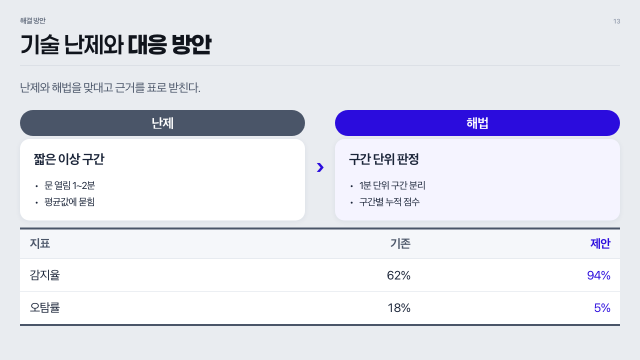
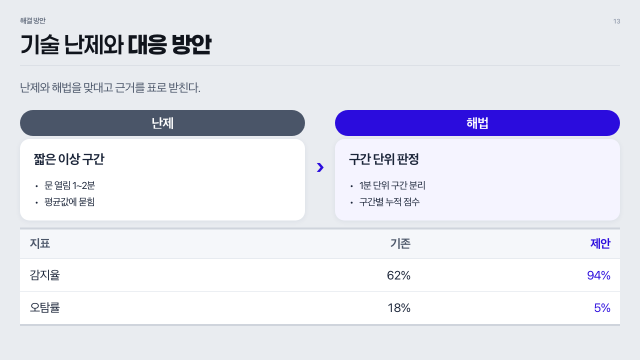
표 위아래 선 색을 4단계 연하게: #4A5568 → #CFD4DC(헤드라인 구분선과 같은 색)

Changed region(s): [[0.0312, 0.8861, 0.9688, 0.9167], [0.0312, 0.6111, 0.9688, 0.6417]]

diff --git a/docs/templates/deck.html b/docs/templates/deck.html
@@ -86,9 +86,9 @@ ul.rl.row li .v{display:inline;margin-left:.5em;}
 .stat .sv small{font-size:.5em;color:var(--text);margin-left:.05em;font-weight:700;}
 .stat .sn{font-size:var(--fs-small);color:var(--primary-2);font-weight:700;margin-top:.5em;line-height:1.4;}
 /* kv table (minimal): label column grey, values, bold last row; emphasize col tinted */
-/* 표 — SAFE AI 디자인 시스템 Data Table: 위·아래 4px 회색(--text-mid) 선으로 시작·끝, 안쪽은 1px 연회색 선(세로선 없음).
+/* 표 — SAFE AI 디자인 시스템 Data Table: 위·아래 4px 연회색(헤드라인 구분선과 같은 색) 선으로 시작·끝, 안쪽은 1px 연회색 선(세로선 없음).
    머리글(타이틀 영역)은 연회색 바탕·회색 글자. rowHeader 면 첫 열도 타이틀 영역(연회색 바탕·회색 글자 + 오른쪽 1px 선). 강조 열은 글자색만 포인트 컬러 */
-table.rt{width:100%;border-collapse:collapse;font-size:calc(var(--fs-table) * var(--kt, 1));background:#fff;table-layout:fixed;text-align:left;border-top:4px solid var(--text-mid);border-bottom:4px solid var(--text-mid);}
+table.rt{width:100%;border-collapse:collapse;font-size:calc(var(--fs-table) * var(--kt, 1));background:#fff;table-layout:fixed;text-align:left;border-top:4px solid #CFD4DC;border-bottom:4px solid #CFD4DC;}
 .rt thead th{background:var(--bg-soft);color:var(--text-mid);font-weight:700;text-align:left;padding:.55em .8em;border:0;border-bottom:1px solid var(--border);font-size:calc(var(--fs-tableh) * var(--kt, 1));line-height:1.3;word-break:keep-all;overflow-wrap:anywhere;vertical-align:middle;}   /* 머리글도 칸이 좁으면 줄바꿈 */
 .rt thead th.em{color:var(--primary);}
 .rt tbody td{padding:.6em .8em;border:0;word-break:keep-all;overflow-wrap:anywhere;border-bottom:1px solid var(--border);vertical-align:middle;color:var(--text);background:transparent;text-align:left;line-height:1.45;}

diff --git a/docs/design/index.html b/docs/design/index.html
@@ -256,9 +256,9 @@ tr.dirty .val input{border-color:var(--acc);color:var(--acc)}
 .d-banner .msg .rl li{color:var(--p-btext);font-size:calc(var(--fs-small)*var(--k));gap:.35em}
 .d-banner .msg .rl li::before{color:var(--p-btext)}
 .d-banner .msg .rl{gap:.35em}
-/* 표 — SAFE AI Data Table: 위·아래 4px 회색 선, 안쪽 1px 연회색 선, 타이틀 영역 연회색 바탕·회색 글자 */
+/* 표 — SAFE AI Data Table: 위·아래 4px 연회색 선, 안쪽 1px 연회색 선, 타이틀 영역 연회색 바탕·회색 글자 */
 .d-tbl{width:100%;border-collapse:collapse;font-size:calc(var(--fs-table)*var(--k));background:#fff;table-layout:fixed;text-align:left;
-  border-top:4px solid #4A5568;border-bottom:4px solid #4A5568}
+  border-top:4px solid #CFD4DC;border-bottom:4px solid #CFD4DC}
 .d-tbl th{background:#F5F7FA;color:#4A5568;font-weight:700;text-align:left;padding:.55em .8em;
   border:0;border-bottom:1px solid #D9DEE6;font-size:calc(var(--fs-tableh)*var(--k));line-height:1.3;white-space:nowrap}
 .d-tbl th.em{color:var(--p)}

diff --git a/skills/ppt-maker/app/design-system.html b/skills/ppt-maker/app/design-system.html
@@ -256,9 +256,9 @@ tr.dirty .val input{border-color:var(--acc);color:var(--acc)}
 .d-banner .msg .rl li{color:var(--p-btext);font-size:calc(var(--fs-small)*var(--k));gap:.35em}
 .d-banner .msg .rl li::before{color:var(--p-btext)}
 .d-banner .msg .rl{gap:.35em}
-/* 표 — SAFE AI Data Table: 위·아래 4px 회색 선, 안쪽 1px 연회색 선, 타이틀 영역 연회색 바탕·회색 글자 */
+/* 표 — SAFE AI Data Table: 위·아래 4px 연회색 선, 안쪽 1px 연회색 선, 타이틀 영역 연회색 바탕·회색 글자 */
 .d-tbl{width:100%;border-collapse:collapse;font-size:calc(var(--fs-table)*var(--k));background:#fff;table-layout:fixed;text-align:left;
-  border-top:4px solid #4A5568;border-bottom:4px solid #4A5568}
+  border-top:4px solid #CFD4DC;border-bottom:4px solid #CFD4DC}
 .d-tbl th{background:#F5F7FA;color:#4A5568;font-weight:700;text-align:left;padding:.55em .8em;
   border:0;border-bottom:1px solid #D9DEE6;font-size:calc(var(--fs-tableh)*var(--k));line-height:1.3;white-space:nowrap}
 .d-tbl th.em{color:var(--p)}

diff --git a/skills/ppt-maker/references/design-system.md b/skills/ppt-maker/references/design-system.md
@@ -22,7 +22,7 @@
 - **지표 카드**: 왼쪽 2행 표(라벨 열 연회색, 마지막 행 굵게) + 오른쪽 연파랑 강조 박스(작은 라벨 + 큰 수치 "18% 증가"). **큰 수치(stat)**: 작은 지표명 → 큰 숫자(단위는 절반 크기) → 파란 보조 문장.
 - **그래프(chart)**(2026-09-30, [shadcn/ui Charts](https://ui.shadcn.com/charts) 를 따름): 회색 패널 없이 카드 위에 바로. 왼쪽 제목·오른쪽 "단위 : …". 가로 격자선만(연한 테두리색), 축선·눈금선 없음, X 라벨만. 막대는 위 모서리만 둥글게(한 시리즈 5px, 여러 시리즈 3px), 선은 부드러운 곡선 + 선 색으로 채운 점, 값 라벨은 위. 범례는 아래 가운데(작은 둥근 네모). 색은 브랜드 팔레트 순서(primary-2 → primary → teal → gold). PPTX 는 같은 규칙이되 막대 모서리 둥글리기만 없음. 같은 종류 그래프는 형식 통일.
 - **간트(gantt)**(2026-10-01): 왼쪽 항목 이름 열(24%, 중간 굵기), 위 기간 라벨(회색) + 밑줄, 칸마다 세로 격자선(연한 테두리색), 행마다 가로 막대(행 높이의 40%, 포인트 컬러, 모서리 3px). `second` 파랑·`accent` 청록·`muted` 회색. 가로 구분선·행 배경은 없음. 한 장에 행 3~8개, 칸 4~12개.
-- **표**(2026-10-04, Figma SAFE AI 디자인 시스템 Data Table 을 따름): 시작·끝은 **4px 회색 선**(`--text-mid` #4A5568, 2026-10-09 검정 2px 에서 바꿈), 안쪽 행 구분은 1px 연회색 선(`--border`), 세로선 없음. **타이틀 영역(머리글 행)** 은 연회색 바탕(`--bg-soft`)·**굵게(bold)·회색 글자(`--text-mid`)**. **본문 칸은 보통 굵기(regular)·검정(`--text`)**. **세로 타이틀이 있는 표(`rowHeader: true`)** 는 첫 열도 타이틀 영역 — 연회색 바탕·굵게·회색 글자, 오른쪽 1px 선. 첫 칸이 합계·총계·평균인 행만 연회색 바탕·굵게. 숫자 칸이 절반 넘는 열은 오른쪽 정렬(tabular-nums). 강조 열만 머리글 포인트 컬러 글자(밑줄은 다른 열과 같은 1px 선), 칸은 글자색만 포인트 컬러(바탕 칠하지 않음, 굵기 그대로). **카드 안 작은 표(라벨·값 두 칸, `rows`)** 는 표가 아니라 값 목록처럼: 위·아래 검정 선 없음, 라벨 회색(`--text-mid`), 값 오른쪽 정렬·굵게, 행 사이 1px 선. **크기는 내용에 맞춘다**: `widths` 가 없으면 열 너비를 칸 글자 양에 맞춰 나누고(긴 글 열은 넓게, 숫자 열은 좁게, 열마다 최소 8%), 머리글도 칸이 좁으면 줄바꿈한다. 세로는 본문 배율(`--k`)을 0.75까지 줄이고, 그래도 넘치면 표 글자만 0.75배(`--kt`, 약 10pt)까지 더 줄인다. 그래도 한 장에 안 들어가는 표는 빌드할 때 행을 고르게 나눠 여러 장으로 편다(머리글 반복, 제목 뒤 "(계속)", 표 위 블록은 첫 장·아래 블록은 마지막 장).
+- **표**(2026-10-04, Figma SAFE AI 디자인 시스템 Data Table 을 따름): 시작·끝은 **4px 연회색 선**(헤드라인 구분선과 같은 #CFD4DC, 2026-10-09 검정 2px 에서 바꿈), 안쪽 행 구분은 1px 연회색 선(`--border`), 세로선 없음. **타이틀 영역(머리글 행)** 은 연회색 바탕(`--bg-soft`)·**굵게(bold)·회색 글자(`--text-mid`)**. **본문 칸은 보통 굵기(regular)·검정(`--text`)**. **세로 타이틀이 있는 표(`rowHeader: true`)** 는 첫 열도 타이틀 영역 — 연회색 바탕·굵게·회색 글자, 오른쪽 1px 선. 첫 칸이 합계·총계·평균인 행만 연회색 바탕·굵게. 숫자 칸이 절반 넘는 열은 오른쪽 정렬(tabular-nums). 강조 열만 머리글 포인트 컬러 글자(밑줄은 다른 열과 같은 1px 선), 칸은 글자색만 포인트 컬러(바탕 칠하지 않음, 굵기 그대로). **카드 안 작은 표(라벨·값 두 칸, `rows`)** 는 표가 아니라 값 목록처럼: 위·아래 검정 선 없음, 라벨 회색(`--text-mid`), 값 오른쪽 정렬·굵게, 행 사이 1px 선. **크기는 내용에 맞춘다**: `widths` 가 없으면 열 너비를 칸 글자 양에 맞춰 나누고(긴 글 열은 넓게, 숫자 열은 좁게, 열마다 최소 8%), 머리글도 칸이 좁으면 줄바꿈한다. 세로는 본문 배율(`--k`)을 0.75까지 줄이고, 그래도 넘치면 표 글자만 0.75배(`--kt`, 약 10pt)까지 더 줄인다. 그래도 한 장에 안 들어가는 표는 빌드할 때 행을 고르게 나눠 여러 장으로 편다(머리글 반복, 제목 뒤 "(계속)", 표 위 블록은 첫 장·아래 블록은 마지막 장).
 - **배너(callout)**(2026-10-08 밝게 반전): 메인 컬러를 아주 연하게 깐 둥근 박스(`--banner` = 메인 12% · 보라면 연보라) + 메인 컬러를 연하게 한 테두리 1.5px(`--banner-border` = 메인 40%)로 연회색 장표 바탕과 구분한다. **라벨("특이사항"/"참고"/"핵심 요약")은 박스 안 왼쪽**에 포인트 컬러(`--banner-label`) 15pt 굵게, 본문 불릿은 오른쪽에 회색(`--banner-text` #515B75) 14pt, 본문 안 굵은 글씨는 포인트 컬러. 밖으로 걸치는 흰 칩은 쓰지 않는다. 배너는 **낮게** 쓴다: 안쪽 여백 `.75em 1.6em`(small 기준), 라벨–본문 간격 1.6em, 줄 사이 ≤0.35em.
 - **비교(compare)**: 라벨 칩(AS-IS 회색 / TO-BE 네이비)이 달린 두 카드, 오른쪽 연파랑, 가운데 › 화살표. **로드맵**: 선 + 네이비 번호 원 + 흰 단계 카드(마지막 `darkLast` 반전). **이미지**: 흰 카드 안, 없는 이미지는 점선 자리표시자. **이미지 상자는 기본 16:9**(`ratio` 로 `4:3`·`1:1`·`9:16`·`3:4`·`original`). 칸의 너비·높이 중 작은 쪽에 맞춰 비율을 지키고 원본은 가장자리를 잘라 채운다(cover). `original` 만 원본 비율 그대로(contain).
 - **표지/마무리**: `meta.coverBg` 로 고른 배경 3종 중 하나(soft·grid·band). 표지는 설명줄 → 제목 → 왼쪽 아래 로고 → 오른쪽 아래 상자 네 덩어리만 쓴다. 자세한 좌표는 아래 '표지·목차 글자 규격'.
